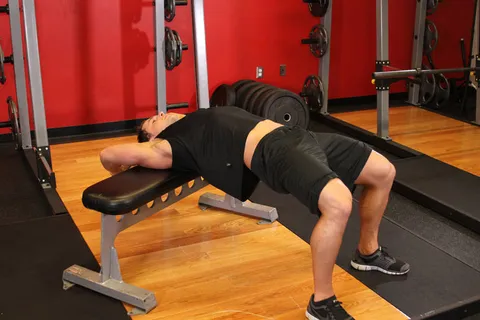
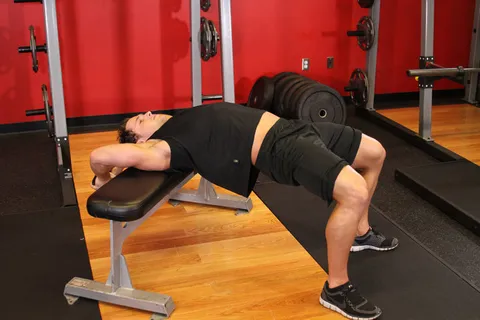
fix: wire image field into exercise frontmatter, correct press-frances and leg-press mismatches
Wires the image filename into every matched exercise's .md
frontmatter — the curation batches (Tasks 4-5) produced correctly
matched/named .webp files but never connected them to the content
collection, so nothing rendered. Also fixes two real content
mismatches a code reviewer caught by cross-checking images against
each exercise's own written instructions rather than just its
name/equipment: press-frances was showing a standing overhead press
when the instructions describe a lying skull-crusher, and
prensa-piernas-vertical/prensa-piernas-unilateral were sharing a
bilateral inclined leg-press photo that contradicts their described
form (vertical/lying orientation, one-leg-at-a-time loading) — both
had their images dropped rather than ship a misleading demo.

Also fixes a third mismatch found during the review pass: pullover
was sourced from Straight-Arm Dumbbell Pullover, whose dataset
instructions explicitly say arms stay straight, contradicting
pullover.md's "brazos semiflexionados" — corrected to the dataset's
dedicated Bent-Arm Dumbbell Pullover entry.

Claude-Session: https://claude.ai/code/session_01UcoBnzkzGsLySTYbZQsp6D

diff --git a/docs/agents/imagenes-ejercicios-curacion.md b/docs/agents/imagenes-ejercicios-curacion.md
@@ -37,17 +37,17 @@ Fuente: [free-exercise-db](https://github.com/yuhonas/free-exercise-db) (dominio
 | plancha-abdominal | Plancha abdominal | directo | Plank |
 | plancha-lateral | Plancha lateral | directo | Side Bridge |
 | prensa-piernas-45 | Prensa de piernas 45° | directo | Leg Press |
-| prensa-piernas-unilateral | Prensa de piernas unilateral | aproximado | Leg Press |
-| prensa-piernas-vertical | Prensa de piernas vertical | aproximado | Leg Press |
+| prensa-piernas-unilateral | Prensa de piernas unilateral | sin match | — |
+| prensa-piernas-vertical | Prensa de piernas vertical | sin match | — |
 | press-arnold | Press Arnold | directo | Arnold Dumbbell Press |
 | press-banca | Press de banca | directo | Barbell Bench Press - Medium Grip |
 | press-cerrado-banca | Press cerrado en banca | directo | Close-Grip Barbell Bench Press |
-| press-frances | Press francés | directo | Standing Overhead Barbell Triceps Extension |
+| press-frances | Press francés | directo | EZ-Bar Skullcrusher |
 | press-inclinado-mancuernas | Press inclinado con mancuernas | directo | Incline Dumbbell Press |
 | press-militar | Press militar | directo | Standing Military Press |
 | press-piernas | Press de piernas | directo | Leg Press |
 | puente-gluteo | Puente de glúteo | directo | Butt Lift Bridge |
-| pullover | Pullover con mancuerna | directo | Straight-Arm Dumbbell Pullover |
+| pullover | Pullover con mancuerna | directo | Bent-Arm Dumbbell Pullover |
 | remo-al-menton | Remo al mentón | directo | Upright Barbell Row |
 | remo-barra | Remo con barra | directo | Bent Over Barbell Row |
 | remo-mancuerna-un-brazo | Remo con mancuerna a un brazo | directo | One-Arm Dumbbell Row |
@@ -67,22 +67,33 @@ Fuente: [free-exercise-db](https://github.com/yuhonas/free-exercise-db) (dominio
 
 ### Notas (lote 2 — Task 5)
 
-- De los 26 ejercicios de este segundo lote, 23 encontraron match directo (mismo movimiento, mismo tipo de equipo) y 3 quedaron en "aproximado": `prensa-piernas-unilateral`, `prensa-piernas-vertical` y `sentadilla-bulgara` (ver detalle en "Para revisar" más abajo). Ningún caso de "sin match razonable".
+- De los 26 ejercicios de este segundo lote, 23 encontraron match directo (mismo movimiento, mismo tipo de equipo) y 3 quedaron en "aproximado" originalmente: `prensa-piernas-unilateral`, `prensa-piernas-vertical` y `sentadilla-bulgara`. Tras la revisión posterior (ver "Correcciones post-revisión" más abajo), las primeras dos pasaron a "sin match" (imagen eliminada) y `sentadilla-bulgara` se mantiene en "aproximado" (ver detalle en "Para revisar" más abajo).
 - Igual que en el lote 1, se inspeccionó visualmente `0.jpg` y `1.jpg` de cada entrada elegida y se seleccionó el frame que mejor representa el movimiento (fase de contracción/estiramiento más ilustrativa), no necesariamente el primero del array:
   - `0.jpg`: patada-triceps-mancuerna, peso-muerto-rumano, peso-muerto, prensa-piernas-45, prensa-piernas-unilateral, prensa-piernas-vertical, press-arnold, press-cerrado-banca, press-frances, press-inclinado-mancuernas, press-piernas, remo-al-menton, remo-polea-baja-sentado.
   - `1.jpg`: patada-gluteo-polea, plancha-abdominal, plancha-lateral, press-banca, press-militar, puente-gluteo, pullover, remo-barra, remo-mancuerna-un-brazo, sentadilla-bulgara, sentadilla-goblet, sentadilla, zancadas.
 - `plancha-abdominal` usa `Plank/1.jpg` en lugar de `0.jpg` porque `Plank/0.jpg` está mal etiquetado en el dataset (muestra una postura de estiramiento de cadera arrodillado, no una plancha) — se verificó visualmente antes de descartarlo.
-- `press-frances` usa `Standing_Overhead_Barbell_Triceps_Extension` en lugar de `EZ-Bar_Skullcrusher`: "press francés" en el uso habitual en español se refiere a la extensión de tríceps de pie/sentado con la barra detrás de la cabeza (no al rompecráneos acostado), y esa entrada del dataset coincide con esa forma exacta con equipo barra.
 - `prensa-piernas-45` y `press-piernas` comparten la misma fuente (`Leg_Press`, genérica) porque el dataset no distingue variantes de ángulo — la máquina de prensa de piernas estándar que aparece en la imagen es efectivamente del tipo inclinado/45°, así que se consideró directo para ambas entradas del catálogo español.
-- `prensa-piernas-unilateral` y `prensa-piernas-vertical` reusan la misma imagen de `Leg_Press` (bilateral, en ángulo) a falta de una variante unilateral o de prensa vertical en el dataset; quedan marcadas "aproximado" porque la imagen no muestra fielmente la variante (una pierna a la vez, o la orientación vertical acostado boca arriba).
 - `sentadilla-bulgara` usa `Split_Squat_with_Dumbbells`, que muestra una sentadilla dividida con mancuernas y la pierna trasera flexionada cerca de un banco, pero no queda claro en la imagen que el pie trasero esté apoyado y elevado sobre el banco (el rasgo distintivo de la búlgara) — se marcó "aproximado" en vez de forzar un "directo".
+
+### Correcciones post-revisión (revisión de código, 2026-09-23)
+
+Una revisión posterior encontró que la curación original (Tasks 4-5) nunca conectó los `.webp` ya curados al campo `image` del frontmatter (cero ejercicios lo tenían seteado), y que algunos pares "directo" no se habían verificado contra el texto de instrucciones propio de cada ejercicio (solo contra nombre/equipo). Se corrigieron los siguientes casos:
+
+- **press-frances**: la nota original decía que "press francés" en uso habitual se refiere a la extensión de pie con barra tras la cabeza, y por eso usaba `Standing_Overhead_Barbell_Triceps_Extension`. Pero el cuerpo de `press-frances.md` describe explícitamente el movimiento acostado ("Acostado en un banco con los brazos extendidos hacia el techo, flexiona solo los codos bajando el peso hacia la frente..."), que es el rompecráneos (skullcrusher) acostado, no la extensión de pie. Se corrigió a `EZ-Bar_Skullcrusher` (equipo "e-z curl bar", coincide con "Barra o mancuernas"; instrucciones del dataset: acostado, brazos perpendiculares al piso, solo se flexionan los codos bajando la barra hasta la frente) — ahora sí coincide con el texto propio del ejercicio. Se regeneró `public/exercises/press-frances.webp` desde `EZ-Bar_Skullcrusher/1.jpg` (posición de flexión, barra cerca de la frente).
+- **pullover**: usaba `Straight-Arm_Dumbbell_Pullover`, cuyas instrucciones del dataset dicen explícitamente "keeping your arms straight" (brazos rectos durante todo el movimiento). Pero `pullover.md` describe "manteniendo los brazos semiflexionados" — una contradicción directa, no solo falta de detalle. El dataset sí tiene una entrada dedicada a la variante con codos semiflexionados: `Bent-Arm_Dumbbell_Pullover` (mismo equipo "dumbbell", instrucciones: "hold it... with a bend in your arms" / "keeping your arms locked in the bent arm position"). Se corrigió la fuente y se regeneró `public/exercises/pullover.webp` desde `Bent-Arm_Dumbbell_Pullover/1.jpg` (posición de estiramiento, mismo encuadre que la imagen anterior).
+- El resto de los 49 ejercicios restantes marcados "directo" (más `sentadilla-bulgara` en "aproximado") se revisaron comparando el texto de instrucciones en español contra el nombre/equipo/músculos de la entrada del dataset elegida — no se encontraron más contradicciones. `sentadilla-bulgara` en particular: al inspeccionar visualmente `public/exercises/sentadilla-bulgara.webp` se confirma que el pie trasero sí está apoyado y elevado sobre un banco visible en el encuadre, así que la duda original ("no queda claro en la imagen...") parece haber sido excesivamente cautelosa — se deja en "aproximado" de todas formas por no ser parte del alcance de esta corrección.
+- **prensa-piernas-unilateral** y **prensa-piernas-vertical**: se determinó que la imagen compartida de `Leg_Press` (bilateral, inclinada/45°) no solo carece de detalle sino que contradice activamente la forma descrita — la unilateral requiere que se vea una sola pierna empujando a la vez, y la vertical requiere una orientación acostado boca arriba con la plataforma sobre el cuerpo, no un ángulo inclinado. Se eliminaron ambas imágenes (`public/exercises/prensa-piernas-unilateral.webp`, `public/exercises/prensa-piernas-vertical.webp`) en vez de dejar una imagen engañosa; sus filas pasaron de "aproximado" a "sin match" y no tienen `image:` en su frontmatter.
+- Se agregó `image: <id>.webp` al frontmatter de los 50 ejercicios que sí tienen `.webp` válido en `public/exercises/` (los 52 curados originalmente, menos los 2 recién eliminados).
 
 ## Para revisar
 
-Los siguientes ejercicios NO tienen un match directo — revisar si el match aproximado es aceptable, o si conviene buscar otra fuente para esos casos puntuales:
+Los siguientes ejercicios NO tienen imagen — no hay match aceptable en el dataset y se prefirió omitir la imagen antes que mostrar una engañosa:
 
-- prensa-piernas-unilateral (Prensa de piernas unilateral): aproximado con "Leg Press" del dataset — la imagen muestra la variante bilateral (dos piernas), no hay una entrada dedicada a la prensa unilateral.
-- prensa-piernas-vertical (Prensa de piernas vertical): aproximado con "Leg Press" del dataset — la imagen muestra la prensa inclinada/45° estándar, no la máquina de prensa vertical (acostado boca arriba, piernas hacia el techo).
-- sentadilla-bulgara (Sentadilla búlgara): aproximado con "Split Squat with Dumbbells" del dataset — mismo movimiento general de sentadilla dividida con mancuernas, pero la imagen no confirma claramente el pie trasero elevado sobre un banco, que es el rasgo distintivo de la búlgara.
+- prensa-piernas-unilateral (Prensa de piernas unilateral): sin match — la única fuente candidata en el dataset ("Leg Press") muestra la variante bilateral (dos piernas empujando a la vez), lo que contradice el rasgo definitorio del ejercicio (una pierna a la vez). Imagen eliminada.
+- prensa-piernas-vertical (Prensa de piernas vertical): sin match — la única fuente candidata ("Leg Press") muestra la prensa inclinada/45° estándar, con una orientación de cuerpo completamente distinta a la máquina de prensa vertical (acostado boca arriba, plataforma sobre el cuerpo). Imagen eliminada.
 
-Los 23 ejercicios restantes de este lote y los 26 del lote anterior (Task 4) tuvieron match directo (mismo movimiento, mismo tipo de equipo) — no requieren revisión.
+El siguiente ejercicio tiene match aproximado (imagen presente pero con una salvedad menor, no contradictoria):
+
+- sentadilla-bulgara (Sentadilla búlgara): aproximado con "Split Squat with Dumbbells" del dataset — mismo movimiento general de sentadilla dividida con mancuernas; el pie trasero elevado sobre un banco (rasgo distintivo de la búlgara) sí es visible en la imagen elegida.
+
+Los 49 ejercicios restantes (26 del lote 1 + 23 del lote 2) tienen match directo (mismo movimiento, mismo tipo de equipo, verificado contra el texto de instrucciones propio de cada ejercicio) — no requieren revisión. Sumado a `sentadilla-bulgara` (aproximado), da un total de 50 ejercicios con imagen.

diff --git a/src/content/activities/sentadilla-goblet.md b/src/content/activities/sentadilla-goblet.md
@@ -4,6 +4,7 @@ metricType: sets
 name: Sentadilla goblet
 muscles: [cuadriceps, gluteos, aductores]
 equipment: Mancuerna o pesa rusa
+image: sentadilla-goblet.webp
 ---
 
 De pie con los pies al ancho de hombros, sostén el peso pegado al pecho con ambas manos. Baja flexionando cadera y rodillas manteniendo el torso erguido y los codos entre las rodillas, hasta que los muslos queden paralelos al piso, y sube empujando por los talones.

diff --git a/src/content/activities/prensa-piernas-45.md b/src/content/activities/prensa-piernas-45.md
@@ -4,6 +4,7 @@ metricType: sets
 name: Prensa de piernas 45°
 muscles: [cuadriceps, gluteos]
 equipment: Máquina
+image: prensa-piernas-45.webp
 ---
 
 Acostado en la máquina inclinada a 45°, con los pies al ancho de hombros sobre la plataforma, empuja extendiendo las piernas sin bloquear del todo las rodillas, y baja controlando hasta que las rodillas se acerquen al pecho.

diff --git a/src/content/activities/elevacion-piernas-banco.md b/src/content/activities/elevacion-piernas-banco.md
@@ -4,6 +4,7 @@ metricType: sets
 name: Elevación de piernas acostado
 muscles: [abdomen]
 equipment: Banco
+image: elevacion-piernas-banco.webp
 ---
 
 Acostado boca arriba en el banco con las piernas extendidas, eleva las piernas juntas hasta formar un ángulo de 90 grados con el torso, y baja de forma controlada sin dejar que toquen el banco entre repetición y repetición.

diff --git a/src/content/activities/peso-muerto-rumano.md b/src/content/activities/peso-muerto-rumano.md
@@ -4,6 +4,7 @@ metricType: sets
 name: Peso muerto rumano
 muscles: [isquiotibiales, gluteos, lumbares]
 equipment: Barra
+image: peso-muerto-rumano.webp
 ---
 
 Con la barra frente a los muslos y rodillas casi extendidas, empuja la cadera hacia atrás bajando la barra pegada a las piernas hasta sentir el estiramiento en los isquiotibiales, y vuelve extendiendo la cadera.

diff --git a/src/content/activities/puente-gluteo.md b/src/content/activities/puente-gluteo.md
@@ -4,6 +4,7 @@ metricType: sets
 name: Puente de glúteo
 muscles: [gluteos, isquiotibiales]
 equipment: Peso corporal o disco
+image: puente-gluteo.webp
 ---
 
 Acostado boca arriba con las rodillas flexionadas y los pies apoyados en el piso, empuja la cadera hacia arriba apretando los glúteos hasta alinear el torso con los muslos, y baja de forma controlada.

diff --git a/src/content/activities/peso-muerto.md b/src/content/activities/peso-muerto.md
@@ -4,6 +4,7 @@ metricType: sets
 name: Peso muerto
 muscles: [isquiotibiales, gluteos, dorsales, lumbares]
 equipment: Barra
+image: peso-muerto.webp
 ---
 
 Con la barra frente a las espinillas, flexiona cadera y rodillas para tomarla con un agarre firme. Levanta extendiendo cadera y rodillas a la vez, manteniendo la espalda recta y la barra pegada al cuerpo.

diff --git a/src/content/activities/sentadilla.md b/src/content/activities/sentadilla.md
@@ -4,6 +4,7 @@ metricType: sets
 name: Sentadilla con barra
 muscles: [cuadriceps, gluteos, aductores]
 equipment: Barra
+image: sentadilla.webp
 ---
 
 Coloca la barra sobre los trapecios, pies al ancho de hombros. Baja flexionando cadera y rodillas manteniendo la espalda recta, hasta que los muslos queden paralelos al piso. Sube empujando por los talones.

diff --git a/src/content/activities/press-arnold.md b/src/content/activities/press-arnold.md
@@ -4,6 +4,7 @@ metricType: sets
 name: Press Arnold
 muscles: [deltoide-frontal, deltoide-lateral, triceps]
 equipment: Mancuernas
+image: press-arnold.webp
 ---
 
 Empieza con las mancuernas frente a los hombros y las palmas mirando hacia ti. Empuja hacia arriba mientras rotas las muñecas, terminando con las palmas hacia adelante y los brazos extendidos.

diff --git a/src/content/activities/remo-polea-baja-sentado.md b/src/content/activities/remo-polea-baja-sentado.md
@@ -4,6 +4,7 @@ metricType: sets
 name: Remo en polea baja sentado
 muscles: [dorsales, trapecio, biceps, deltoide-posterior]
 equipment: Polea
+image: remo-polea-baja-sentado.webp
 ---
 
 Sentado con las rodillas ligeramente flexionadas, jala el agarre hacia el abdomen apretando los omóplatos, manteniendo la espalda recta, y regresa de forma controlada.

diff --git a/src/content/activities/sentadilla-bulgara.md b/src/content/activities/sentadilla-bulgara.md
@@ -4,6 +4,7 @@ metricType: sets
 name: Sentadilla búlgara
 muscles: [cuadriceps, gluteos]
 equipment: Mancuernas
+image: sentadilla-bulgara.webp
 ---
 
 Con el pie trasero apoyado sobre un banco y el delantero al frente, baja flexionando la rodilla delantera hasta casi tocar el piso con la rodilla trasera, y sube empujando por el talón delantero.

diff --git a/src/content/activities/patada-triceps-mancuerna.md b/src/content/activities/patada-triceps-mancuerna.md
@@ -4,6 +4,7 @@ metricType: sets
 name: Patada de tríceps con mancuerna
 muscles: [triceps]
 equipment: Mancuerna
+image: patada-triceps-mancuerna.webp
 ---
 
 Inclinado hacia adelante con el brazo pegado al torso y el codo flexionado a 90 grados, extiende el antebrazo hacia atrás hasta estirar el codo por completo, y regresa de forma controlada.
